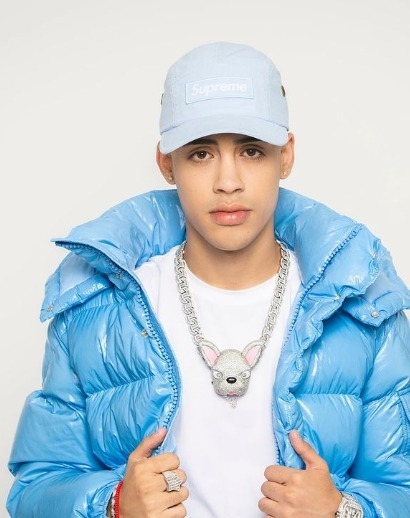
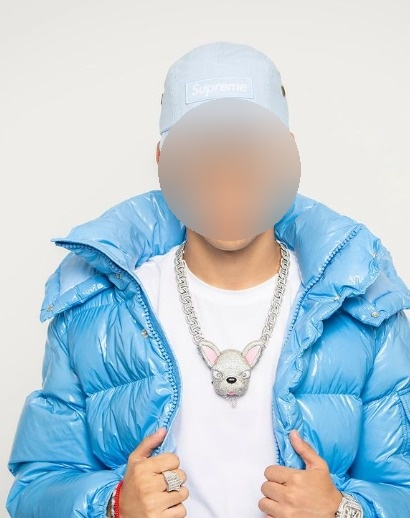
Replace square blur with oval mask using numpy

Changed region(s): [[0.3805, 0.1853, 0.7317, 0.4633]]

diff --git a/faceblur.py b/faceblur.py
@@ -1,17 +1,21 @@
 import cv2
+import numpy as np
 
 image = cv2.imread("foto.jpeg")
 
-clasifier = cv2.CascadeClassifier(cv2.data.haarcascades + "haarcascade_frontalface_default.xml")
+classifier = cv2.CascadeClassifier(cv2.data.haarcascades + "haarcascade_frontalface_default.xml")
 
 gray = cv2.cvtColor(image, cv2.COLOR_BGR2GRAY)
 
-faces = clasifier.detectMultiScale(gray, scaleFactor=1.1, minNeighbors=5)
+faces = classifier.detectMultiScale(gray, scaleFactor=1.1, minNeighbors=5)
 print(faces)
 
 for (x, y, w, h) in faces:
     region = image[y:y+h, x:x+w]
     region_blurred = cv2.GaussianBlur(region, (99,99), 30)
-    image[y:y+h, x:x+w] = region_blurred
+    mask = np.zeros((h, w), dtype=np.uint8)
+    cv2.ellipse(mask, (w // 2, h // 2), (w // 2, h // 2), 0, 0, 360, 255, -1)
+    mask_3d = cv2.merge([mask, mask, mask])
+    image[y:y+h, x:x+w] = np.where(mask_3d == 255, region_blurred, region)
 
 cv2.imwrite("result.jpg", image)
